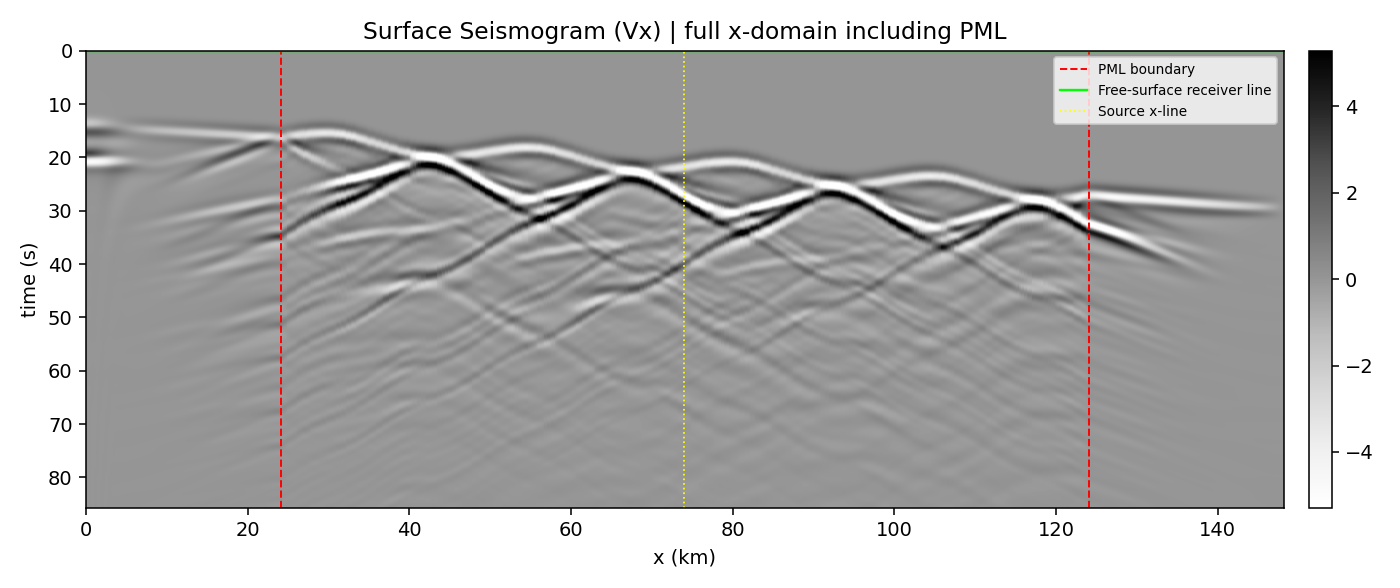
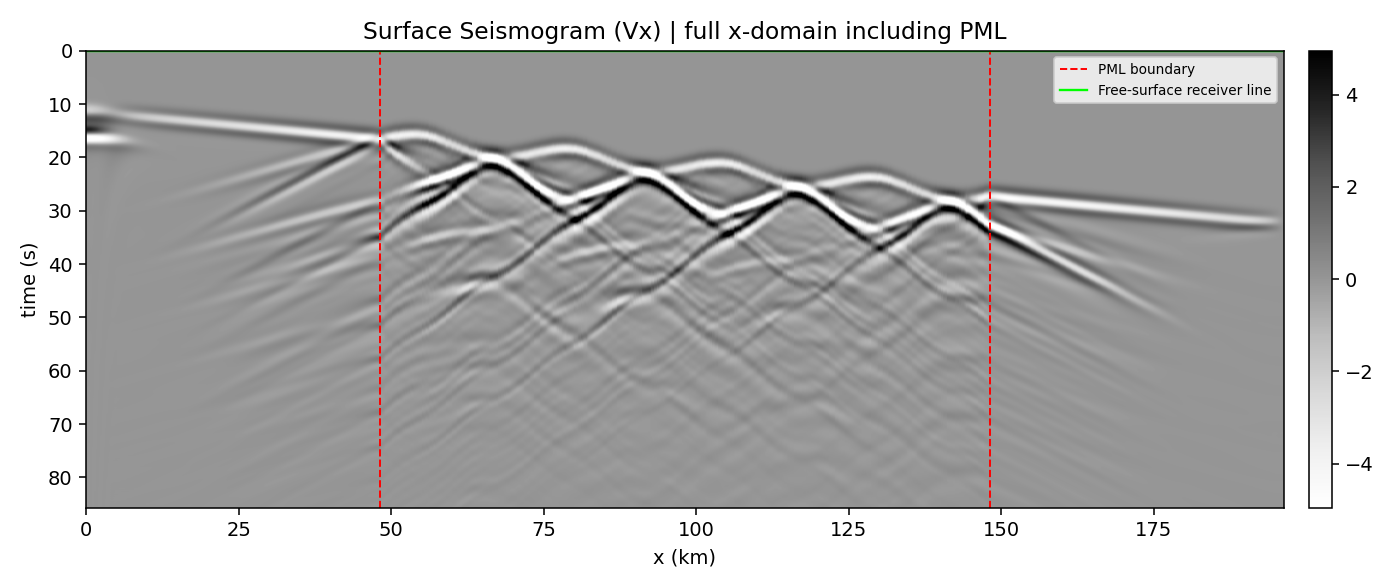
Highlight plane-wave feature, switch demo to 2x PML case, refine plot annotations, add MIT license

diff --git a/scripts/run_acceptance_case.py b/scripts/run_acceptance_case.py
@@ -64,6 +64,7 @@ def parse_args() -> argparse.Namespace:
     parser.add_argument("--dx-m", type=float, default=None)
     parser.add_argument("--dz-m", type=float, default=None)
     parser.add_argument("--pml-x-scale", type=float, default=1.0)
+    parser.add_argument("--pml-z-scale", type=float, default=1.0)
     parser.add_argument("--topo-amplitude-km", type=float, default=5.0)
     parser.add_argument("--topo-mean-depth-km", type=float, default=5.0)
     parser.add_argument("--topo-cycles", type=float, default=4.0)
@@ -201,13 +202,18 @@ def _stop_rss_monitor(
 
 
 def run_compute_stage(args: argparse.Namespace, out_dir: Path) -> dict:
+    pml_x_scale = max(0.1, float(args.pml_x_scale))
+    pml_z_scale = max(0.1, float(args.pml_z_scale))
+
     cfg = replace(
         SimulationConfig(),
         width_km=float(args.width_km),
         depth_km=float(args.depth_km),
         f0_hz=float(args.f0_hz),
-        pml_ratio_x=float(SimulationConfig().pml_ratio_x * max(0.1, float(args.pml_x_scale))),
-        pml_min_cells_x=int(max(1, round(SimulationConfig().pml_min_cells_x * max(0.1, float(args.pml_x_scale))))),
+        pml_ratio_x=float(SimulationConfig().pml_ratio_x * pml_x_scale),
+        pml_min_cells_x=int(max(1, round(SimulationConfig().pml_min_cells_x * pml_x_scale))),
+        pml_ratio_z=float(SimulationConfig().pml_ratio_z * pml_z_scale),
+        pml_min_cells_z=int(max(1, round(SimulationConfig().pml_min_cells_z * pml_z_scale))),
         topo_amplitude_km=float(args.topo_amplitude_km),
         topo_mean_depth_km=float(args.topo_mean_depth_km),
         topo_cycles=float(args.topo_cycles),
@@ -355,6 +361,8 @@ def run_compute_stage(args: argparse.Namespace, out_dir: Path) -> dict:
             "nz_total": grid.nz_total,
         },
         "pml": {
+            "x_scale": float(pml_x_scale),
+            "z_scale": float(pml_z_scale),
             "reflect_coeff": cfg.pml_reflect_coeff,
             "power": cfg.pml_power,
             "kappa_max": cfg.pml_kappa_max,
@@ -442,7 +450,6 @@ def run_postprocess_stage(out_dir: Path) -> dict:
         out_dir / "wavefield_p.gif",
         "p = div(v)",
         surface_idx=surface_idx,
-        source_x_idx=source_x_idx,
         source_z_idx=source_z_idx,
     )
     save_wavefield_gif(
@@ -452,7 +459,6 @@ def run_postprocess_stage(out_dir: Path) -> dict:
         out_dir / "wavefield_curl.gif",
         "curl = dvz/dx - dvx/dz",
         surface_idx=surface_idx,
-        source_x_idx=source_x_idx,
         source_z_idx=source_z_idx,
     )
     save_wavefield_gif(
@@ -462,7 +468,6 @@ def run_postprocess_stage(out_dir: Path) -> dict:
         out_dir / "wavefield_vx.gif",
         "vx",
         surface_idx=surface_idx,
-        source_x_idx=source_x_idx,
         source_z_idx=source_z_idx,
     )
     save_wavefield_gif(
@@ -472,7 +477,6 @@ def run_postprocess_stage(out_dir: Path) -> dict:
         out_dir / "wavefield_vz.gif",
         "vz",
         surface_idx=surface_idx,
-        source_x_idx=source_x_idx,
         source_z_idx=source_z_idx,
     )
 
@@ -483,7 +487,6 @@ def run_postprocess_stage(out_dir: Path) -> dict:
         dt_s=grid.dt_s * int(compute_meta["output_controls"]["seismo_stride_t"]),
         out_png=out_dir / "surface_seismogram_vx.png",
         out_npy=out_dir / "surface_seismogram_vx.npy",
-        source_x_idx=source_x_idx,
         component="Vx",
     )
     save_surface_seismogram(
@@ -492,7 +495,6 @@ def run_postprocess_stage(out_dir: Path) -> dict:
         dt_s=grid.dt_s * int(compute_meta["output_controls"]["seismo_stride_t"]),
         out_png=out_dir / "surface_seismogram_vz.png",
         out_npy=out_dir / "surface_seismogram_vz.npy",
-        source_x_idx=source_x_idx,
         component="Vz",
     )
 

diff --git a/src/fd_workflow/postprocess.py b/src/fd_workflow/postprocess.py
@@ -25,9 +25,7 @@ def _boundary_overlay(
     ax: plt.Axes,
     grid: GridSpec,
     surface_idx: np.ndarray,
-    source_x_idx: int,
     source_z_idx: int,
-    with_source_depth_line: bool = False,
 ) -> None:
     x_km = np.arange(grid.nx_total) * grid.dx_m / 1_000.0
     z_km = surface_idx * grid.dz_m / 1_000.0
@@ -41,13 +39,8 @@ def _boundary_overlay(
     ax.axhline(bottom_z, color="k", lw=1.0, ls="--")
     ax.plot(x_km, z_km, color="lime", lw=1.2, label="Free surface")
 
-    sx = source_x_idx * grid.dx_m / 1_000.0
     sz = source_z_idx * grid.dz_m / 1_000.0
     ax.axhline(sz, color="yellow", lw=0.9, ls=":", label="Source injection line")
-    ax.plot([sx], [sz], marker="o", color="yellow", markersize=3)
-
-    if with_source_depth_line:
-        ax.axvline(sx, color="yellow", lw=0.8, ls=":")
 
 
 def save_wavefield_gif(
@@ -57,7 +50,6 @@ def save_wavefield_gif(
     out_path: Path,
     title: str,
     surface_idx: np.ndarray,
-    source_x_idx: int,
     source_z_idx: int,
     fps: int = 10,
 ) -> None:
@@ -81,9 +73,7 @@ def save_wavefield_gif(
             ax=ax,
             grid=grid,
             surface_idx=surface_idx,
-            source_x_idx=source_x_idx,
             source_z_idx=source_z_idx,
-            with_source_depth_line=False,
         )
         ax.set_title(f"{title} | full domain with PML | t={times[i]:.2f}s")
         ax.set_xlabel("x (km)")
@@ -107,7 +97,6 @@ def save_surface_seismogram(
     dt_s: float,
     out_png: Path,
     out_npy: Path,
-    source_x_idx: int,
     component: str,
 ) -> None:
     out_png.parent.mkdir(parents=True, exist_ok=True)
@@ -119,7 +108,6 @@ def save_surface_seismogram(
 
     left_x = grid.nbx * grid.dx_m / 1_000.0
     right_x = (grid.nbx + grid.nx_phys) * grid.dx_m / 1_000.0
-    sx = source_x_idx * grid.dx_m / 1_000.0
 
     plt.figure(figsize=(10, 4.2), dpi=140)
     plt.imshow(
@@ -134,7 +122,6 @@ def save_surface_seismogram(
     plt.axvline(left_x, color="red", lw=1.0, ls="--", label="PML boundary")
     plt.axvline(right_x, color="red", lw=1.0, ls="--")
     plt.axhline(0.0, color="lime", lw=1.2, label="Free-surface receiver line")
-    plt.axvline(sx, color="yellow", lw=0.9, ls=":", label="Source x-line")
     plt.xlabel("x (km)")
     plt.ylabel("time (s)")
     plt.title(f"Surface Seismogram ({component}) | full x-domain including PML")

diff --git a/README.md b/README.md
@@ -1,10 +1,14 @@
 # telefd2d
 
-`telefd2d` is a 2D staggered-grid elastic finite-difference (FD) forward-modeling workflow with rugged free-surface topography, absorbing boundaries, and decoupled compute/postprocess stages.
+`telefd2d` is a 2D staggered-grid elastic finite-difference (FD) forward-modeling workflow focused on oblique plane-wave incidence in rugged-topography models, with absorbing boundaries and decoupled compute/postprocess stages.
 
-`telefd2d` 是一个支持起伏自由表面的二维交错网格弹性波有限差分正演流程，包含吸收边界，并采用计算与后处理解耦的工作流。
+`telefd2d` 是一个面向斜入射平面波场景的二维交错网格弹性波有限差分正演流程，支持起伏自由表面与吸收边界，并采用计算与后处理解耦的工作流。
 
-## Topography Demo / 地形算例展示
+## Topography Demo (PML x2 Case) / 地形算例展示（PML 加厚 2 倍）
+
+This gallery uses the case with doubled PML thickness in both x and z directions (`--pml-x-scale 2 --pml-z-scale 2`).
+
+下面展示的是 x、z 两个方向 PML 均加厚到 2 倍的算例（`--pml-x-scale 2 --pml-z-scale 2`）。
 
 ### Wavefield Vx (GIF)
 ![Wavefield Vx](assets/topo_demo/wavefield_vx.gif)
@@ -20,7 +24,7 @@
 
 ## Features / 特性
 - Rugged top free surface, absorbing left/right/bottom boundaries.
-- Plane-wave incidence from lower-left (`20 deg` from z-axis).
+- Oblique plane-wave incidence from lower-left (`20 deg` from z-axis) as a first-class setup.
 - Ricker wavelet source (default `0.25 Hz`).
 - Optional C++/OpenMP accelerated backend.
 - Streaming output mode to reduce memory pressure.
@@ -51,11 +55,11 @@ python scripts/build_fd_boost.py
 
 ### 3) Run acceptance case / 运行验收算例
 ```powershell
-python scripts/run_acceptance_case.py --mode all --backend boost_parallel --threads 14 --output-mode stream_to_disk --output-subdir forward_case_telefd2d --progress-step 200 --progress-sec 0.5
+python scripts/run_acceptance_case.py --mode all --backend boost_parallel --threads 14 --output-mode stream_to_disk --output-subdir forward_case_telefd2d_pml2x --pml-x-scale 2 --pml-z-scale 2 --progress-step 200 --progress-sec 0.5
 ```
 
 ### 4) Locate outputs / 查看输出
-Under `output/forward_case_telefd2d/`:
+Under `output/forward_case_telefd2d_pml2x/`:
 - `wavefield_vx.gif`, `wavefield_vz.gif`
 - `wavefield_p.gif`, `wavefield_curl.gif`
 - `surface_seismogram_vx.png`, `surface_seismogram_vz.png`
@@ -70,7 +74,7 @@ python scripts/benchmark_streaming.py
 
 ### Speed + consistency benchmark
 ```powershell
-python scripts/benchmark_speed_consistency.py --baseline-subdir forward_case_telefd2d
+python scripts/benchmark_speed_consistency.py --baseline-subdir forward_case_telefd2d_pml2x
 ```
 
 ## Publish Checklist / 发布检查
@@ -80,4 +84,4 @@ python scripts/benchmark_speed_consistency.py --baseline-subdir forward_case_tel
 - [x] Two-stage prompts in `prompts/`.
 
 ## License
-License is not set yet. Add `LICENSE` before public release if needed.
+This project is licensed under the MIT License. See `LICENSE`.

diff --git a/docs/workflow_plan.md b/docs/workflow_plan.md
@@ -66,3 +66,25 @@
   - `assets/topo_demo/wavefield_vz.gif`
   - `assets/topo_demo/surface_seismogram_vx.png`
   - `assets/topo_demo/surface_seismogram_vz.png`
+
+## 2026-02-25 Update (Plane-Wave Emphasis + PML x2 Demo)
+- Request:
+  - highlight plane-wave incidence in project introduction,
+  - replace displayed GIF/seismogram with doubled-PML case,
+  - remove source-position mark from seismogram,
+  - keep only one source line on GIF overlays,
+  - add project license.
+- Implementation:
+  - Updated `README.md` intro and demo section for plane-wave emphasis and PML x2 case.
+  - Added `--pml-z-scale` to `scripts/run_acceptance_case.py`, and produced `output/forward_case_telefd2d_pml2x/`.
+  - Updated plotting logic in `src/fd_workflow/postprocess.py`:
+    - removed source x-line from seismogram,
+    - removed source point marker from GIF overlays, keeping source injection line only.
+  - Replaced README assets with outputs from `forward_case_telefd2d_pml2x`.
+  - Added `LICENSE` (MIT).
+- Validation:
+  - Command passed:
+    - `python scripts/run_acceptance_case.py --mode all --backend boost_parallel --threads 14 --output-mode stream_to_disk --output-subdir forward_case_telefd2d_pml2x --pml-x-scale 2 --pml-z-scale 2 --progress-step 200 --progress-sec 0.5`
+  - Metadata check:
+    - baseline `nbx=122`, `nbz=41`
+    - pml2x case `nbx=244`, `nbz=82`
